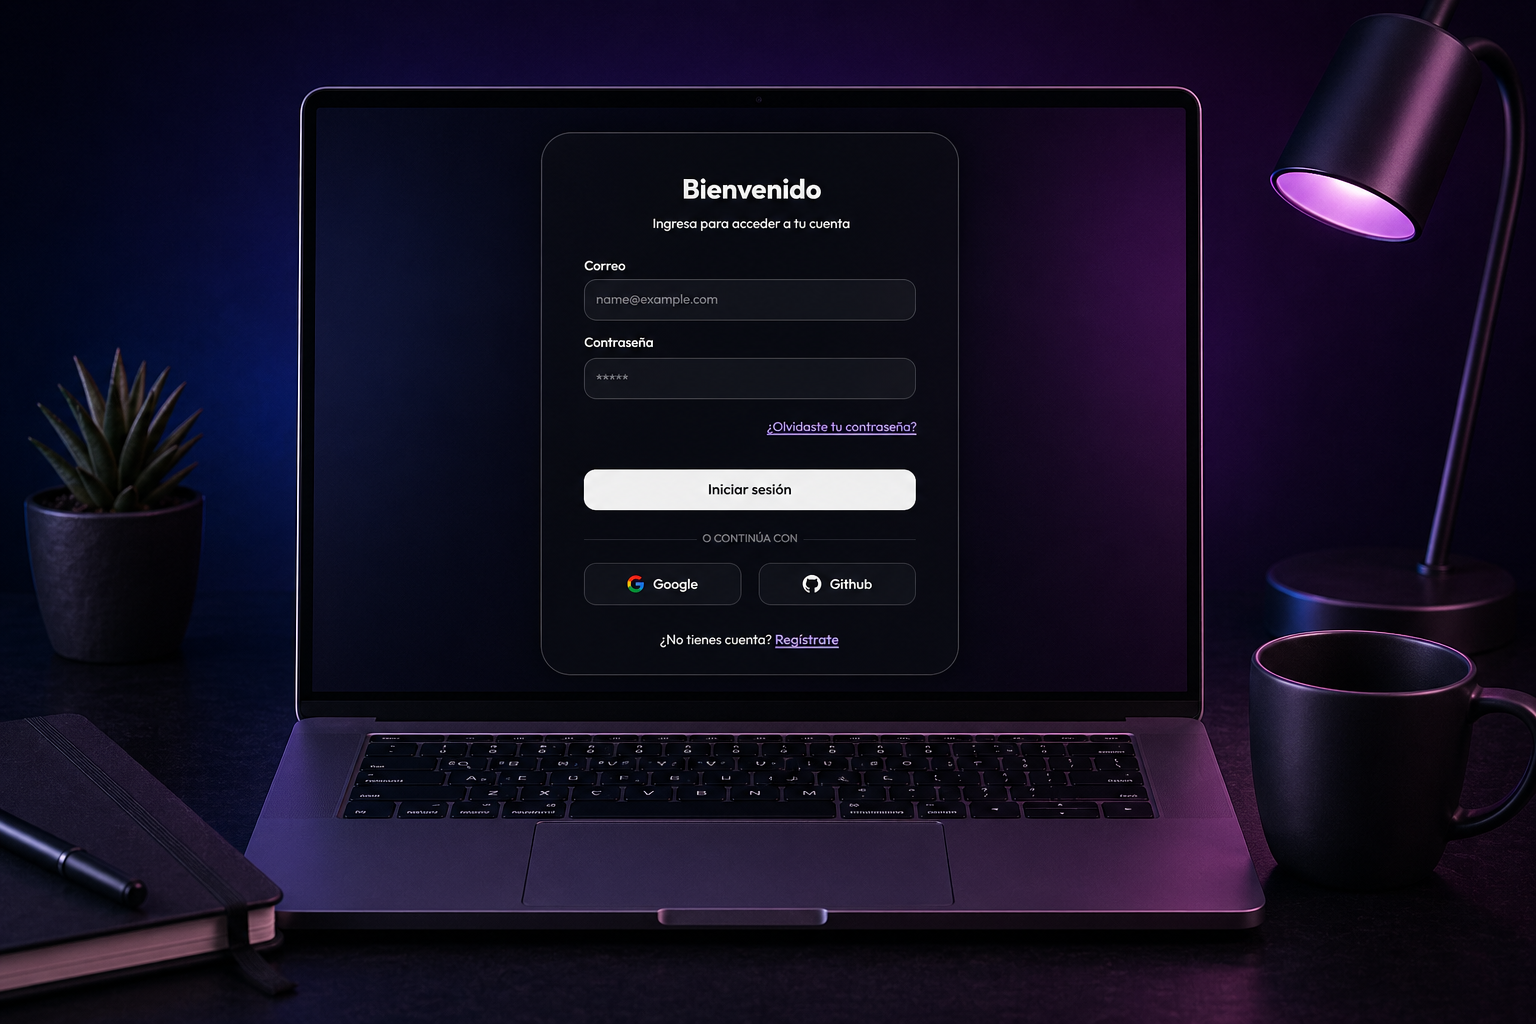
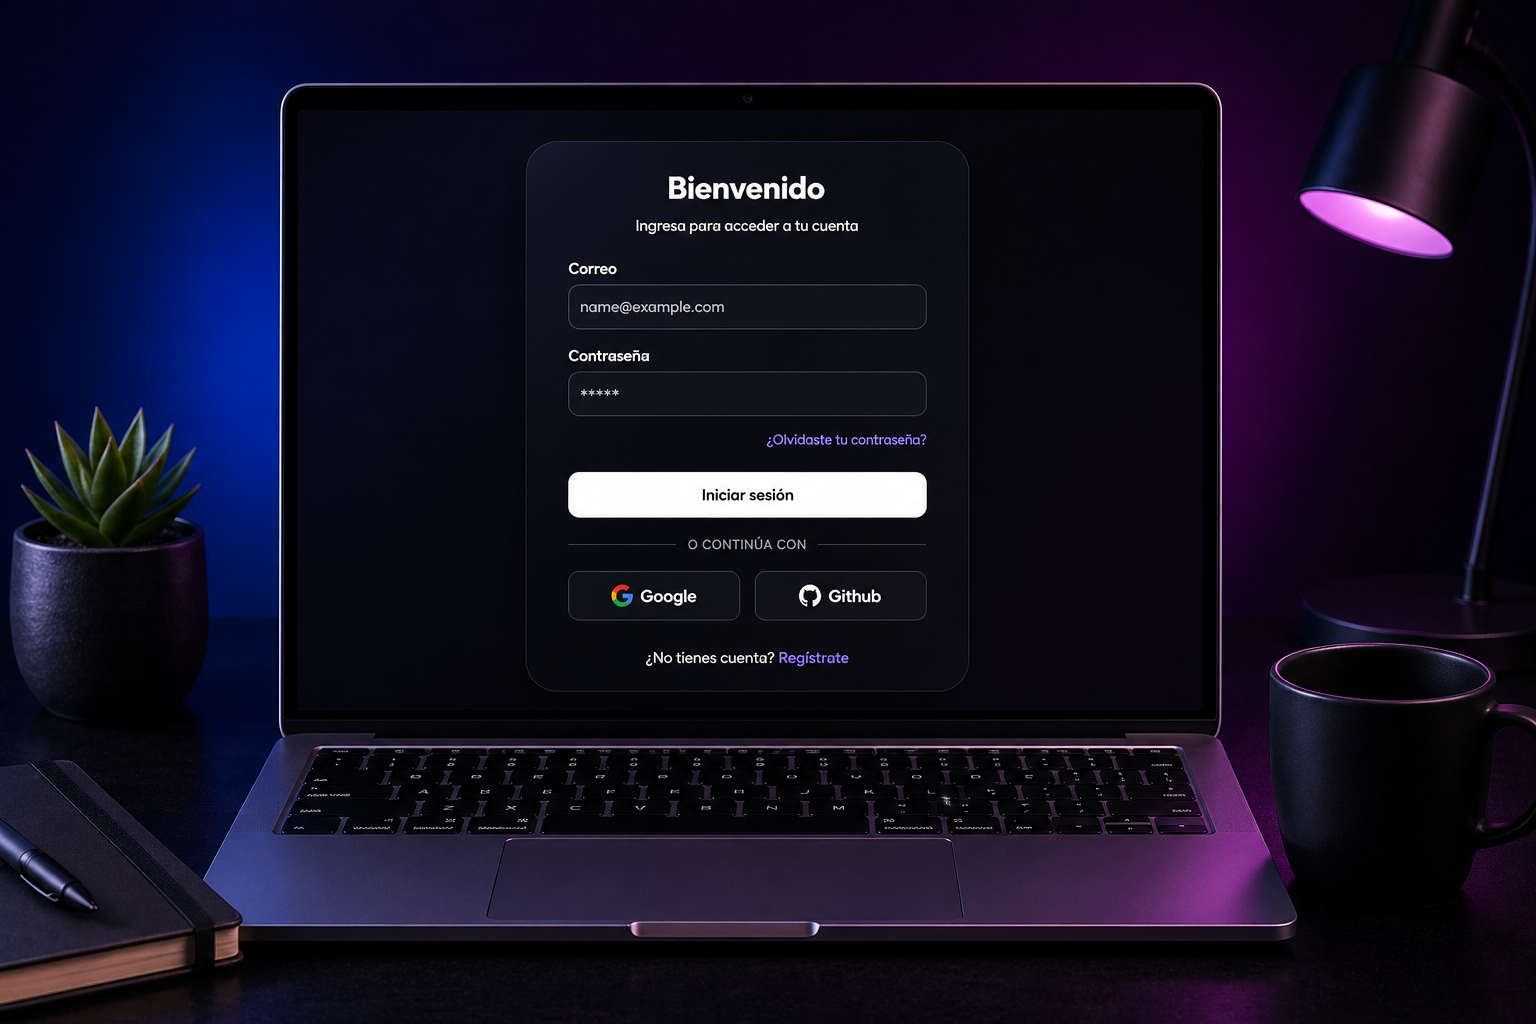
last update

diff --git a/src/pages/WebApps.tsx b/src/pages/WebApps.tsx
@@ -1,15 +1,30 @@
-import { useEffect, useRef } from 'react';
-import { Box, Container, Typography, Grid, Card, CardMedia, CardContent, Button, Link } from '@mui/material';
+import { useEffect, useRef, useState } from 'react';
+import { Box, Container, Typography, Grid, Card, CardMedia, CardContent, Button, Link, Dialog, DialogTitle, DialogContent, DialogContentText, DialogActions } from '@mui/material';
 import { Link as RouterLink } from 'react-router-dom';
 import ArrowBackIcon from '@mui/icons-material/ArrowBack';
 import SEO from '../components/Common/SEO';
 import gsap from 'gsap';
 import imcImg from '../assets/Calculadora IMC en laptop moderna.png';
+import appImg from '../assets/app.png';
+import app2Img from '../assets/app2.png';
 
 const projects = [
   {
-    title: 'Calculadora IMC',
+    title: 'Gestor de Tareas',
     url: '#',
+    image: appImg,
+    description: 'Aplicación web con autenticación y CRUD completo (agregar, editar, actualizar y eliminar tareas) utilizando Supabase.',
+    underConstruction: true,
+  },
+  {
+    title: 'Calculadora de Regla de Tres Simples',
+    url: 'https://regladetressimples.netlify.app/',
+    image: app2Img,
+    description: 'Aplicación para calcular regla de tres simples de forma rápida y sencilla.',
+  },
+  {
+    title: 'Calculadora IMC',
+    url: 'https://imccalculater.netlify.app/',
     image: imcImg,
     description: 'Aplicación web interactiva para calcular el Índice de Masa Corporal con retroalimentación inmediata y diseño moderno.',
   }
@@ -17,6 +32,7 @@ const projects = [
 
 const WebApps = () => {
   const containerRef = useRef(null);
+  const [openModal, setOpenModal] = useState(false);
 
   useEffect(() => {
     const ctx = gsap.context(() => {
@@ -93,22 +109,80 @@ const WebApps = () => {
                   <Typography variant="body2" color="text.secondary" sx={{ mb: 3, lineBreak: 'anywhere' }}>
                     {project.description}
                   </Typography>
-                  <Button
-                    component={Link}
-                    href={project.url}
-                    target="_blank"
-                    variant="outlined"
-                    fullWidth
-                    sx={{ borderRadius: 2, py: 1 }}
-                  >
-                    Ver Aplicación
-                  </Button>
+                  {(project as any).underConstruction ? (
+                    <Button
+                      variant="outlined"
+                      fullWidth
+                      sx={{ borderRadius: 2, py: 1 }}
+                      onClick={() => setOpenModal(true)}
+                    >
+                      Ver Aplicación
+                    </Button>
+                  ) : (
+                    <Button
+                      component={Link}
+                      href={project.url}
+                      target="_blank"
+                      variant="outlined"
+                      fullWidth
+                      sx={{ borderRadius: 2, py: 1 }}
+                    >
+                      Ver Aplicación
+                    </Button>
+                  )}
                 </CardContent>
               </Card>
             </Grid>
           ))}
         </Grid>
+
+        <Box sx={{ mt: 10, p: { xs: 4, md: 6 }, bgcolor: 'background.paper', borderRadius: 4, textAlign: 'center', border: '1px solid rgba(255,255,255,0.05)' }}>
+          <Typography variant="h5" sx={{ mb: 4, fontWeight: 600, color: 'text.primary' }}>
+            Para ver mis proyectos realizados con la empresa ir a mi GitHub o solicitar referencia a través de Federico Penin.
+          </Typography>
+          <Box sx={{ display: 'flex', gap: 2, justifyContent: 'center', flexWrap: 'wrap' }}>
+            <Button
+              component={Link}
+              href="https://github.com/emilianocampos"
+              target="_blank"
+              variant="contained"
+              size="large"
+              sx={{ px: 4, py: 1.5 }}
+            >
+              Ir a mi GitHub
+            </Button>
+            <Button
+              component={Link}
+              href="https://wa.me/542235606801?text=Hola%20Federico,%20quisiera%20pedir%20referencias%20sobre%20el%20trabajo%20de%20Emiliano%20Campos."
+              target="_blank"
+              variant="outlined"
+              size="large"
+              sx={{ px: 4, py: 1.5 }}
+            >
+              Contactar a Federico Penin
+            </Button>
+          </Box>
+        </Box>
       </Container>
+
+      {/* Modal En Construcción */}
+      <Dialog
+        open={openModal}
+        onClose={() => setOpenModal(false)}
+        PaperProps={{ sx: { bgcolor: 'background.paper', backgroundImage: 'none', borderRadius: 3 } }}
+      >
+        <DialogTitle sx={{ fontWeight: 700 }}>En Construcción 🚧</DialogTitle>
+        <DialogContent>
+          <DialogContentText sx={{ color: 'text.secondary' }}>
+            Esta aplicación (Gestor de Tareas) se encuentra actualmente en desarrollo y pronto estará disponible para su uso público. ¡Gracias por tu paciencia!
+          </DialogContentText>
+        </DialogContent>
+        <DialogActions sx={{ p: 2, pt: 0 }}>
+          <Button variant="contained" onClick={() => setOpenModal(false)} sx={{ borderRadius: 2 }}>
+            Entendido
+          </Button>
+        </DialogActions>
+      </Dialog>
     </Box>
   );
 };
